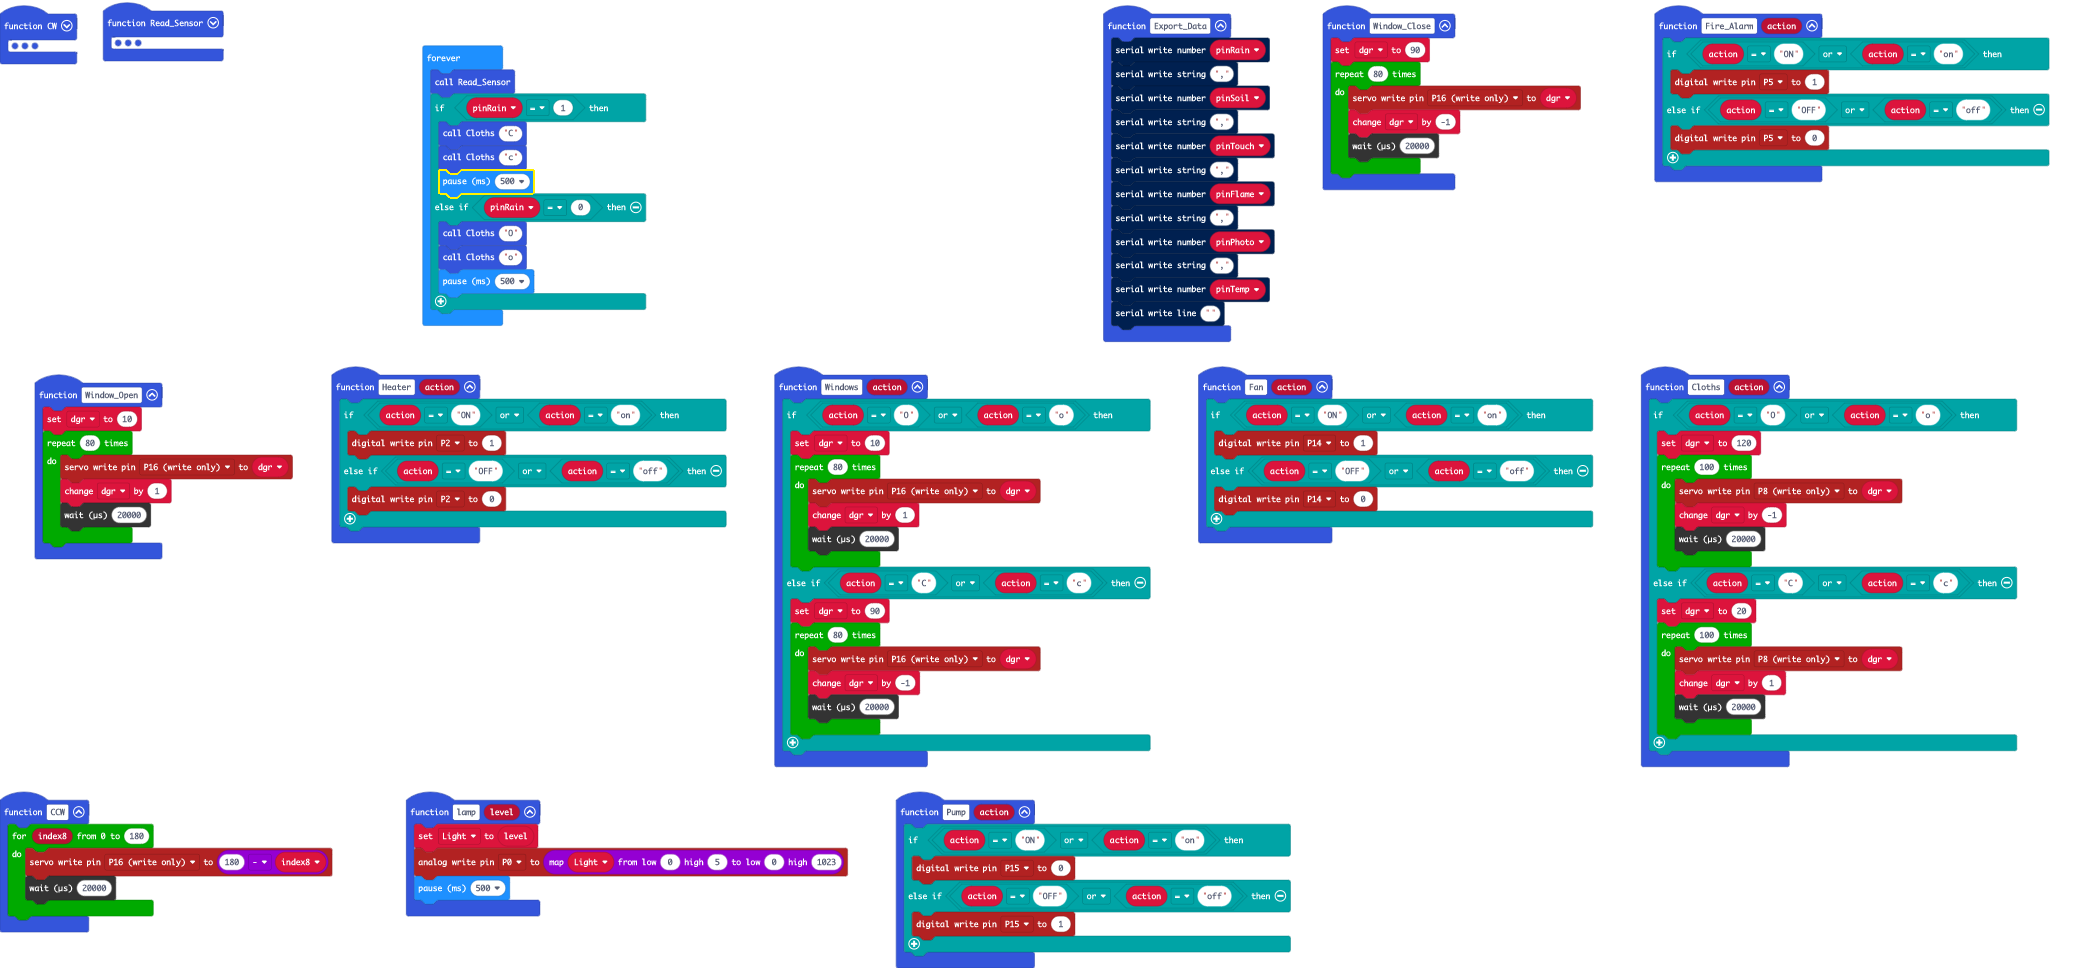
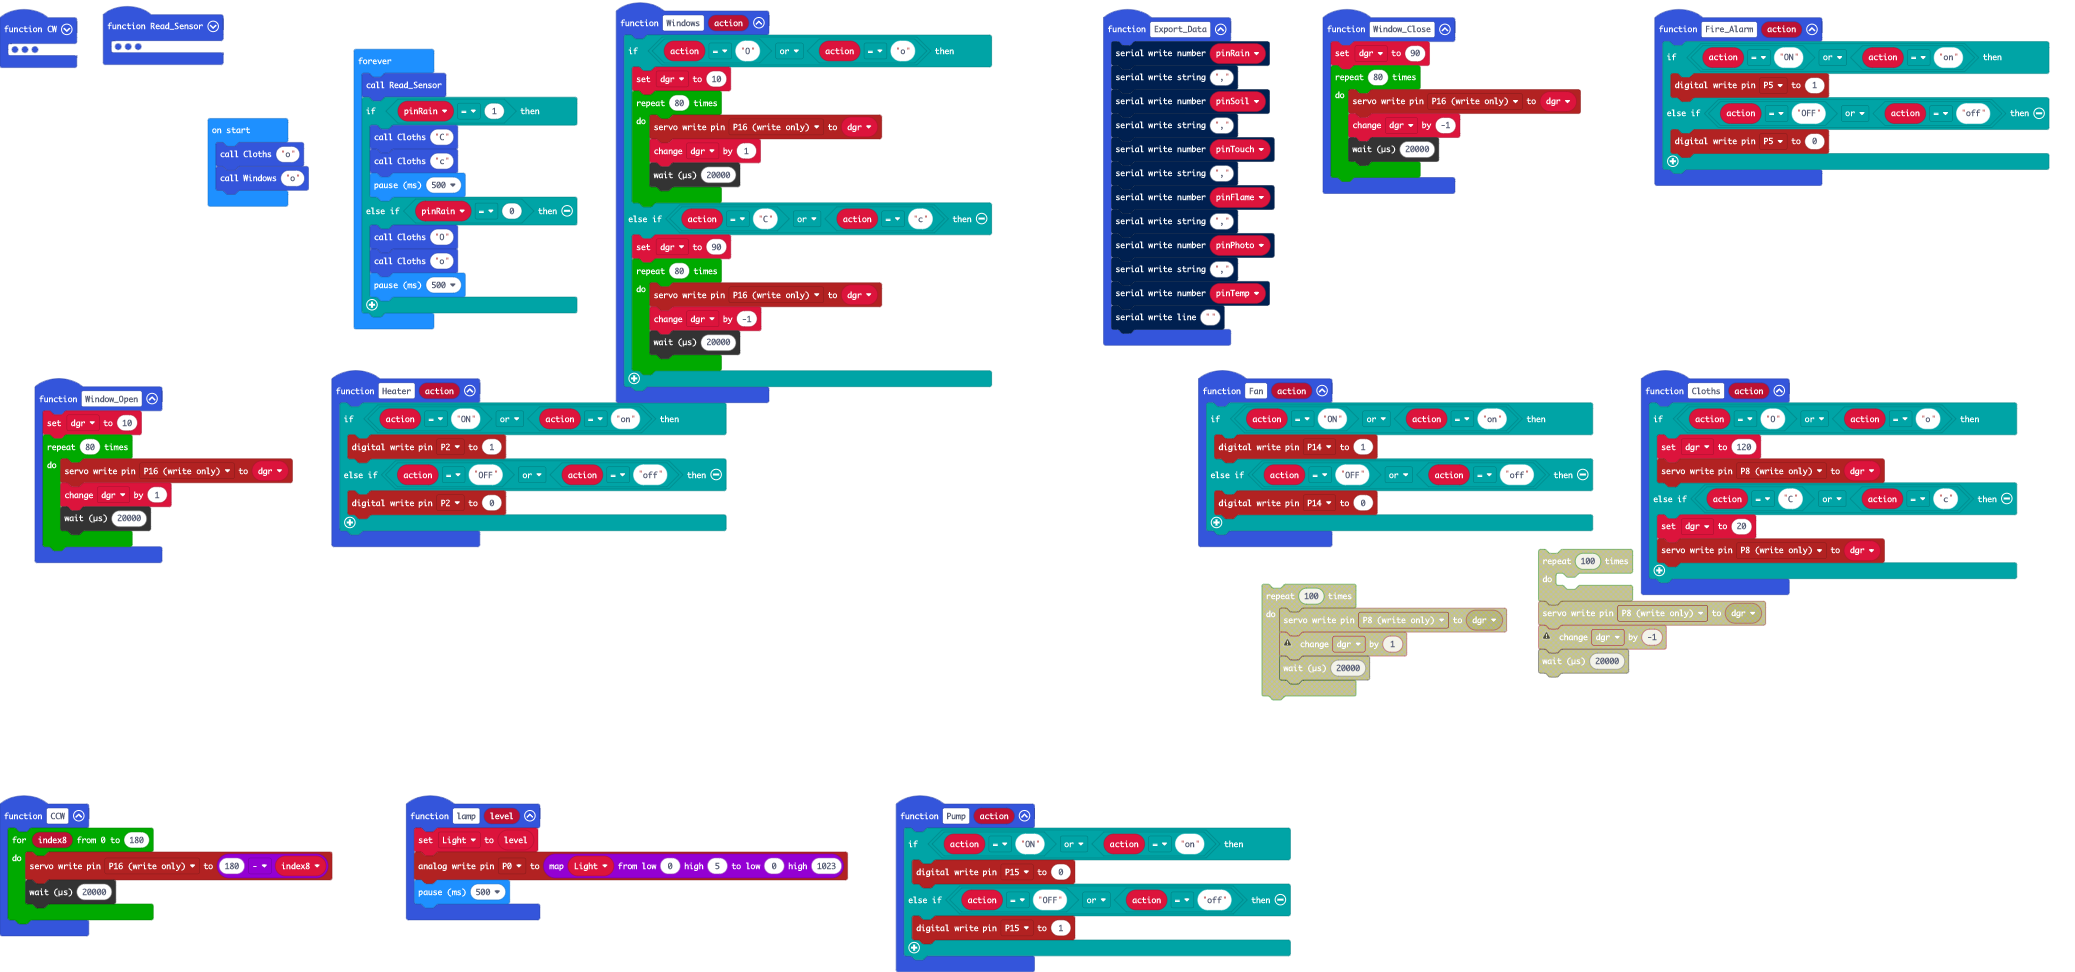
แก้ไขหน้าต่าง ปิดเปิด

diff --git a/main.ts b/main.ts
@@ -1,11 +1,3 @@
-let pinRain = 0
-let pinSoil = 0
-let pinTouch = 0
-let pinFlame = 0
-let pinPhoto = 0
-let pinTemp = 0
-let dgr = 0
-let Light = 0
 function CW () {
     for (let index = 0; index <= 180; index++) {
         pins.servoWritePin(AnalogPin.P16, index)
@@ -91,18 +83,10 @@ function Fan (action: string) {
 function Cloths (action: string) {
     if (action == "O" || action == "o") {
         dgr = 120
-        for (let index = 0; index < 100; index++) {
-            pins.servoWritePin(AnalogPin.P8, dgr)
-            dgr += -1
-            control.waitMicros(20000)
-        }
+        pins.servoWritePin(AnalogPin.P8, dgr)
     } else if (action == "C" || action == "c") {
         dgr = 20
-        for (let index = 0; index < 100; index++) {
-            pins.servoWritePin(AnalogPin.P8, dgr)
-            dgr += 1
-            control.waitMicros(20000)
-        }
+        pins.servoWritePin(AnalogPin.P8, dgr)
     }
 }
 function CCW () {
@@ -123,6 +107,16 @@ function Pump (action: string) {
         pins.digitalWritePin(DigitalPin.P15, 1)
     }
 }
+let Light = 0
+let dgr = 0
+let pinTemp = 0
+let pinPhoto = 0
+let pinFlame = 0
+let pinTouch = 0
+let pinSoil = 0
+let pinRain = 0
+Cloths("o")
+Windows("o")
 basic.forever(function () {
     Read_Sensor()
     if (pinRain == 1) {
